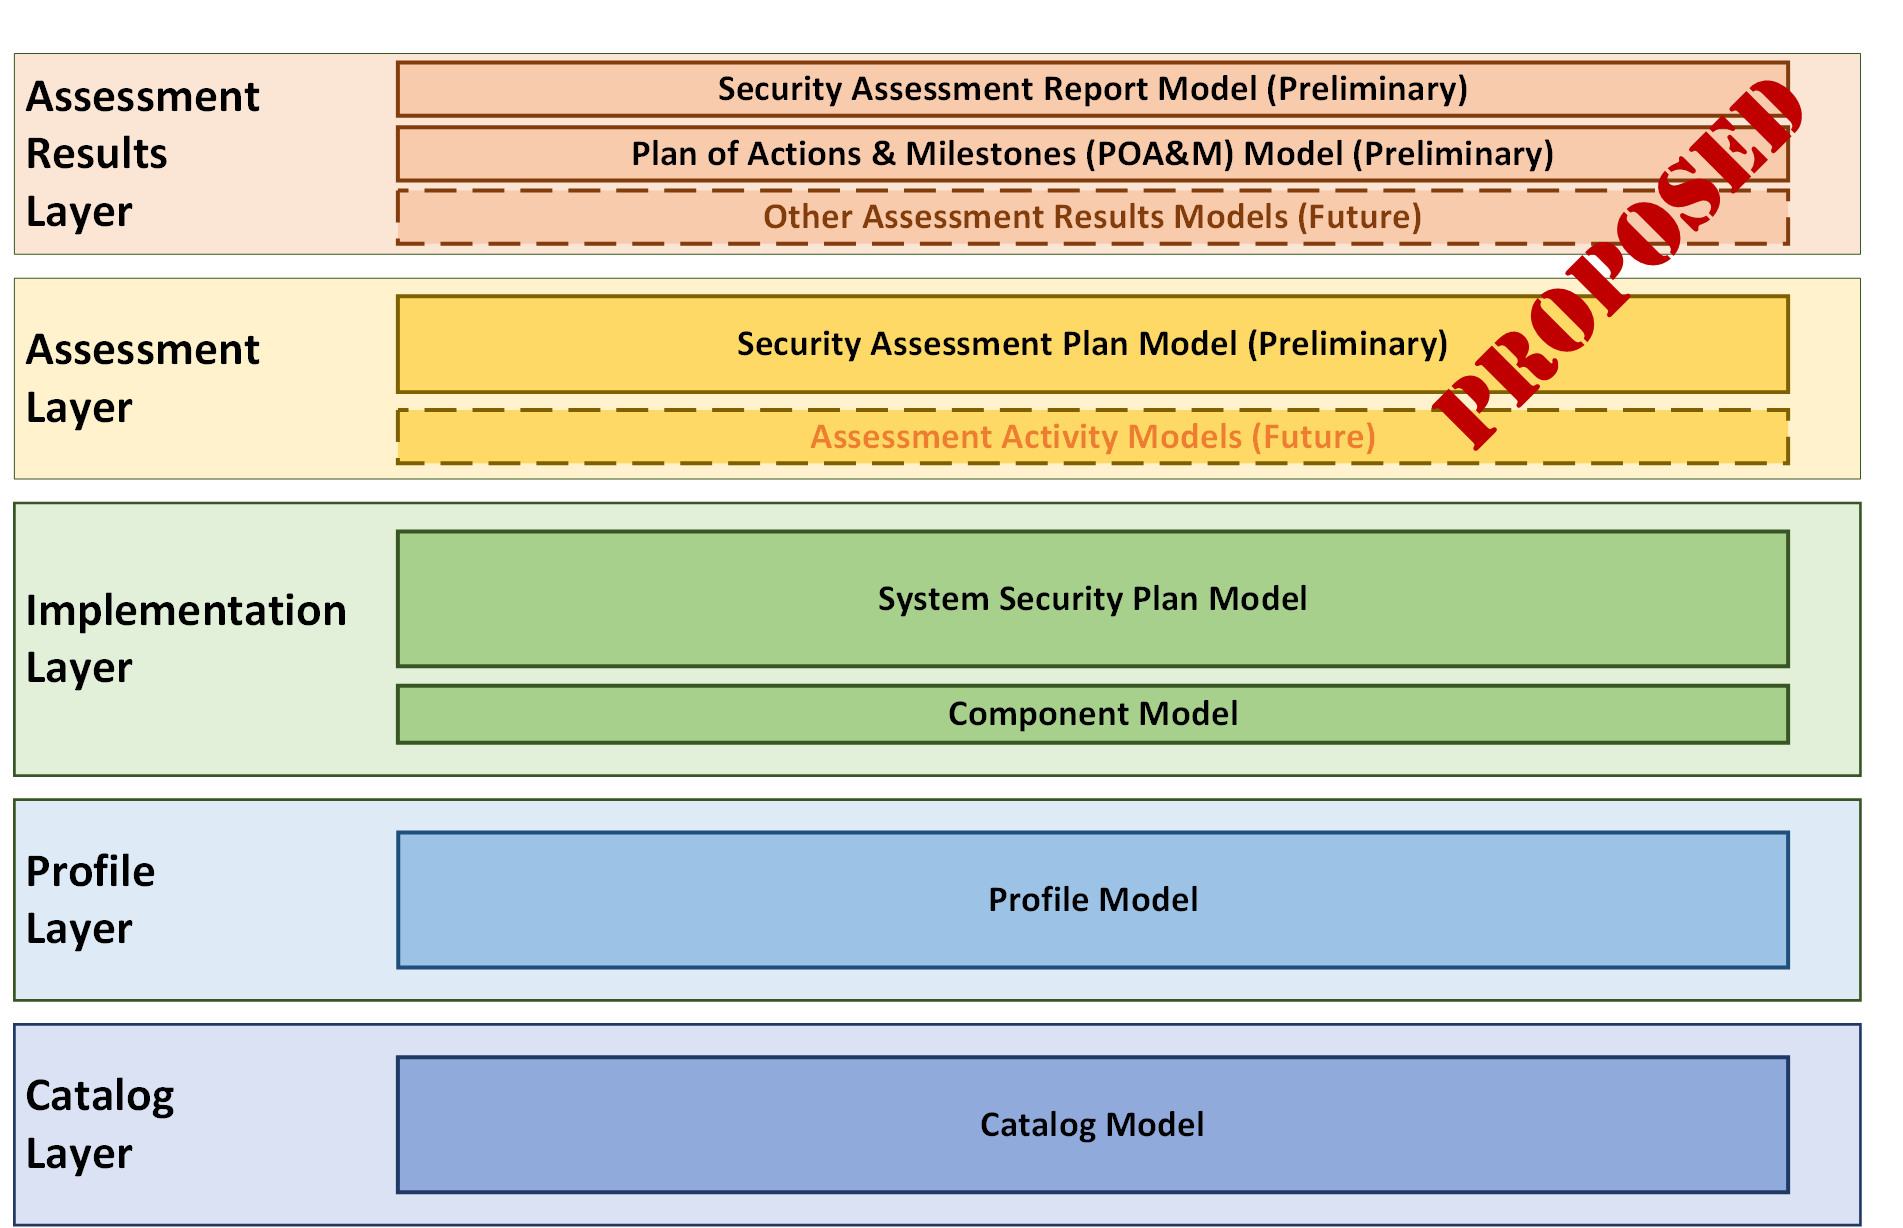
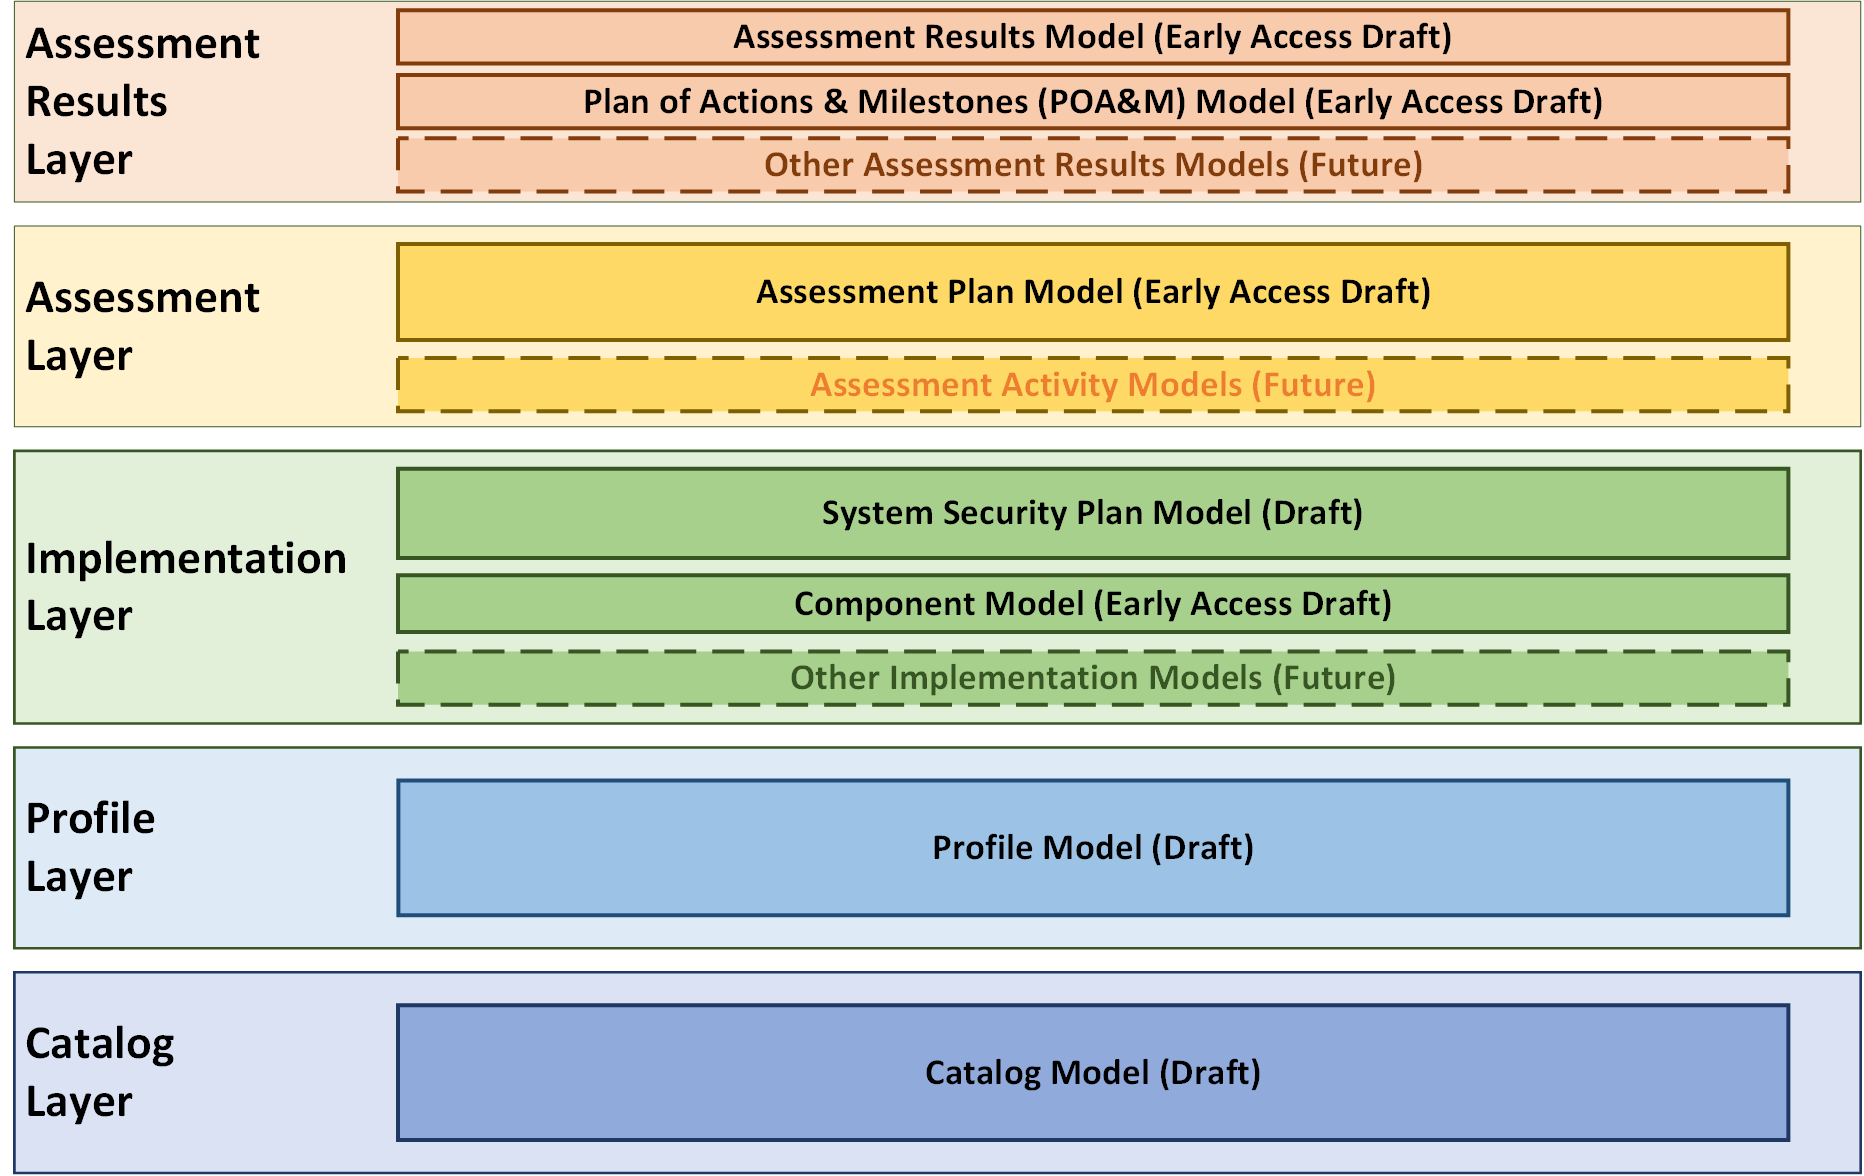
Adjusted model layers in navigation to match the layer diagram. Fixed the layers image map.

diff --git a/docs/content/documentation/schema/_index.md b/docs/content/documentation/schema/_index.md
@@ -16,8 +16,8 @@ The OSCAL project is developing each OSCAL [layer](/learnmore/architecture/) as 
   {{<area href="catalog-layer/" alt="Catalog Layer" title="Catalog Layer" shape="rect" coords="14,972,1858,1171">}}
   {{<area href="profile-layer/profile/" alt="Profile Model" title="Profile Model" shape="rect" coords="397,778,1787,916">}}
   {{<area href="profile-layer/" alt="Profile Layer" title="Profile Layer" shape="rect" coords="15,750,1858,949">}}
-  {{<area href="implementation-layer/component/" alt="Component Model" title="Component Model" shape="rect" coords="397,630,1787,688">}}
-  {{<area href="implementation-layer/ssp/" alt="System Security Plan Model" title="System Security Plan Model" shape="rect" coords="399,479,1787,610">}}
+  {{<area href="implementation-layer/ssp/" alt="System Security Plan Model" title="System Security Plan Model" shape="rect" coords="399,469,1787,556">}}
+  {{<area href="implementation-layer/component/" alt="Component Model" title="Component Model" shape="rect" coords="400,576,1787,630">}}
   {{<area href="implementation-layer/" alt="Implementation Layer" title="Implementation Layer" shape="rect" coords="14,449,1858,720">}}
   {{<area href="assessment-layer/assessment-plan/" alt="Assessment Plan Model" title="Assessment Plan Model" shape="rect" coords="399,245,1787,340">}}
   {{<area href="assessment-layer/" alt="Assessment Layer" title="Assessment Layer" shape="rect" coords="14,225,1858,426">}}
@@ -25,6 +25,14 @@ The OSCAL project is developing each OSCAL [layer](/learnmore/architecture/) as 
   {{<area href="assessment-results-layer/poam/" alt="Plan of Actions and Milestones Model" title="Plan of Actions and Milestones Model" shape="rect" coords="399,77,1785,125">}}
   {{<area href="assessment-results-layer/" alt="Assessment Results Layer" title="Assessment Results Layer" shape="rect" coords="17,3,1858,201">}}
 {{</imagemap>}}
+
+The OSCAL models above are in various states of readiness for release:
+
+- **Future**: Additional models will be published as drafts in the future.
+- **Early Access Draft**: Indicates that the model has been newly developed and released for review and comment, but has received little to no review. Multiple revisions will likely be needed to mature the model for release.
+- **Draft**: Identifies that the model has received some review, but not enough review to be released as a final version. A revision or two might be needed to prepare the model for release.
+- **Pre-Final**: The model is fairly stable and has been extensively reviewed. Some small changes might occur before final release, but the impact of these changes will be small to users or tool implementers.
+- **Released**: The model has been released. Only non-backwards compatibility breaking changes will be made in maintenance releases.
 
 For each model, the OSCAL project is producing the following types of schemas:
 

diff --git a/docs/content/documentation/schema/implementation-layer/_index.md b/docs/content/documentation/schema/implementation-layer/_index.md
@@ -11,6 +11,8 @@ The OSCAL models comprising the implementation layer are:
 
 1. A **[Component Definition model](component/)**, which is currently under development, allows for the definition of a set of *components* that each provide a description of the controls supported by a specific implementation of a hardware, software, or service; or by a given policy, process, procedure, or compliance artifact (e.g., FIPS 140-2 validation).
 
-2. A **[System Security Plan (SSP) model](ssp/)** that allows the security implementation of an information system to be defined based on an OSCAL profile (or baseline). OSCAL-based SSPs are expressed in a machine-readable formats that can be easily imported into a tool, allowing for increased automation of SSP validation and system assessment. An OSCAL SSP can also be transformed from the machine-readable form to a human-readable version.
+1. A **[System Security Plan (SSP) model](ssp/)** that allows the security implementation of an information system to be defined based on an OSCAL profile (or baseline). OSCAL-based SSPs are expressed in a machine-readable formats that can be easily imported into a tool, allowing for increased automation of SSP validation and system assessment. An OSCAL SSP can also be transformed from the machine-readable form to a human-readable version.
+
+1. Other models may be included in future releases of OSCAL based on community input and need.
 
 The component and SSP models are designed to work together. As specific components are selected for use within a system, the content of the relevant component definition files can be used to populate the use of these components within the SSP model. The SSP model can also be used to represent systems that do not define information at the granularity of a specific component, where component definitions do not exist.

diff --git a/docs/content/documentation/schema/catalog-layer/_index.md b/docs/content/documentation/schema/catalog-layer/_index.md
@@ -2,7 +2,7 @@
 title: Catalog Layer
 heading: "OSCAL Catalog Layer"
 description: Provides the OSCAL [catalog model](/documentation/schema/catalog-layer/catalog/), which represents a [control catalog](/learnmore/concepts/catalog/).
-weight: 30
+weight: 70
 ---
 
 Privacy and security documentation today often discusses **controls** and **catalogs**. A [control](/learnmore/concepts/control/) represents a security requirement, guideline, procedure or activity. A [control catalog](/learnmore/concepts/catalog/) is an organized collection of controls.

diff --git a/docs/content/documentation/schema/profile-layer/_index.md b/docs/content/documentation/schema/profile-layer/_index.md
@@ -2,7 +2,7 @@
 title: Profile Layer
 heading: "OSCAL Profile Layer"
 description: Provides the OSCAL [profile model](/documentation/schema/profile-layer/profile/), which represents a [profile](/learnmore/concepts/profile/), also known as a *baseline* or *overlay*.
-weight: 40
+weight: 60
 ---
 
 A **profile** defines a specific set of selected security control requirements from one or more control catalogs. The term "[profile](/learnmore/concepts/profile/)" in OSCAL is also called a *baseline* or *overlay* in other terminology.

diff --git a/docs/content/documentation/schema/assessment-results-layer/_index.md b/docs/content/documentation/schema/assessment-results-layer/_index.md
@@ -2,7 +2,7 @@
 title: Assessment Results Layer
 heading: "OSCAL Assessment Results Layer"
 description: Provides the OSCAL [assessment results](/documentation/schema/assessment-results-layer/assessment-results/) and the [plan of action and milestones](/documentation/schema/assessment-results-layer/poam/) models, which represent assessment result information.
-weight: 70
+weight: 30
 ---
 
 The OSCAL assessment results layer provides models for describing or reporting the results of assessment activities.

diff --git a/docs/content/documentation/schema/assessment-layer/_index.md b/docs/content/documentation/schema/assessment-layer/_index.md
@@ -2,7 +2,7 @@
 title: Assessment Layer
 heading: "OSCAL Assessment Layer"
 description: Provides the OSCAL [assessment plan model](/documentation/schema/assessment-layer/assessment-plan/), which represents assessment planning information such as how and when a system assessment is intended to be performed, the scope of the assessment, and what assessment activities should be conducted.
-weight: 60
+weight: 40
 
 ---
 
